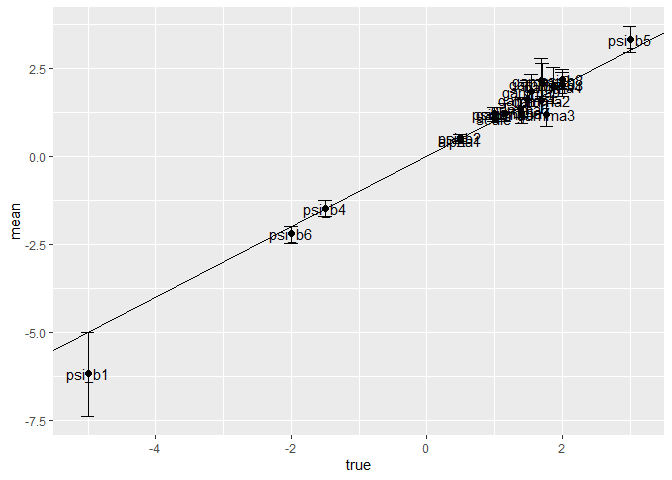
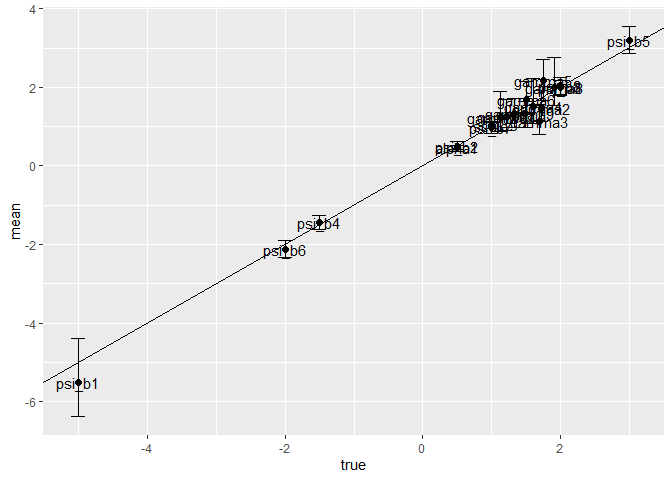
new travis test

diff --git a/README.md b/README.md
@@ -45,7 +45,7 @@ if (!require(devtools)) {
   install.packages("devtools")
   library(devtools)
 }
-install_github("plloydsmith/rmdcev", build_vignettes = FALSE)
+install_github("plloydsmith/rmdcev", build_vignettes = FALSE, INSTALL_opts="--no-multiarch")
 ```
 
 Depending on your computer set-up, you may need to adjust your Makevars
@@ -103,19 +103,21 @@ mdcev_est <- mdcev(~ b1 + b2 + b3 + b4 + b5 + b6 + b7 + b8-1,
                    model = model,
                    algorithm = "MLE")
 #> Using MLE to estimate MDCEV
-#> Chain 1: Initial log joint probability = -17556.8
+#> Chain 1: Initial log joint probability = -18631.4
 #> Chain 1:     Iter      log prob        ||dx||      ||grad||       alpha      alpha0  # evals  Notes 
-#> Chain 1:       19      -14641.9      0.204815       108.929           1           1       24   
+#> Chain 1:       19      -15626.9      0.185145       107.315           1           1       22   
 #> Chain 1:     Iter      log prob        ||dx||      ||grad||       alpha      alpha0  # evals  Notes 
-#> Chain 1:       39      -14570.9      0.113784       101.523      0.2645      0.2645       45   
+#> Chain 1:       39        -15555       0.14702       84.1025           1           1       43   
 #> Chain 1:     Iter      log prob        ||dx||      ||grad||       alpha      alpha0  # evals  Notes 
-#> Chain 1:       59      -14559.4     0.0131136       26.8481        0.55        0.55       67   
+#> Chain 1:       59      -15542.6     0.0775889        40.987           1           1       65   
 #> Chain 1:     Iter      log prob        ||dx||      ||grad||       alpha      alpha0  # evals  Notes 
-#> Chain 1:       79        -14558     0.0120502       8.84637           1           1       89   
+#> Chain 1:       79      -15541.4     0.0174648       7.09082           1           1       89   
 #> Chain 1:     Iter      log prob        ||dx||      ||grad||       alpha      alpha0  # evals  Notes 
-#> Chain 1:       99      -14557.1    0.00784037       3.07293           1           1      110   
+#> Chain 1:       99      -15540.9     0.0284867       3.21212           1           1      111   
 #> Chain 1:     Iter      log prob        ||dx||      ||grad||       alpha      alpha0  # evals  Notes 
-#> Chain 1:      115      -14557.1   0.000170927      0.247455      0.3223           1      129   
+#> Chain 1:      119      -15540.9     0.0052752       1.16396           1           1      133   
+#> Chain 1:     Iter      log prob        ||dx||      ||grad||       alpha      alpha0  # evals  Notes 
+#> Chain 1:      128      -15540.9     0.0016659      0.312295           1           1      142   
 #> Chain 1: Optimization terminated normally: 
 #> Chain 1:   Convergence detected: relative gradient magnitude is below tolerance
 ```
@@ -131,39 +133,39 @@ summary(mdcev_est)
 #> Number of individuals            : 1000
 #> Number of non-numeraire alts     : 10
 #> Estimated parameters             : 20
-#> LL                               : -14557.05
-#> AIC                              : 29154.1
-#> BIC                              : 29252.26
+#> LL                               : -15540.88
+#> AIC                              : 31121.77
+#> BIC                              : 31219.92
 #> Standard errors calculated using : 50 MVN draws
 #> Exit of MLE                      : successful convergence
-#> Time taken (hh:mm:ss)            : 00:00:1.37
+#> Time taken (hh:mm:ss)            : 00:00:1.54
 #> 
 #> Average consumption of non-numeraire alternatives:
 #>     1     2     3     4     5     6     7     8     9    10 
-#> 22.12  9.23 11.89 13.22 17.99 20.27 12.60 17.36 33.84 27.90 
+#> 25.51 15.15  9.70 23.00 37.43 25.60 12.60 12.74 27.76  9.32 
 #> 
 #> Parameter estimates --------------------------------  
 #>         Estimate Std.err z.stat
-#> psi_b1    -6.173   0.592 -10.42
-#> psi_b2     0.521   0.073   7.13
-#> psi_b3     2.042   0.189  10.79
-#> psi_b4    -1.485   0.126 -11.79
-#> psi_b5     3.325   0.180  18.47
-#> psi_b6    -2.203   0.135 -16.30
-#> psi_b7     1.218   0.098  12.38
-#> psi_b8     2.176   0.142  15.29
-#> gamma1     1.596   0.279   5.72
-#> gamma2     1.587   0.266   5.96
-#> gamma3     1.175   0.199   5.90
-#> gamma4     1.989   0.269   7.38
-#> gamma5     1.207   0.148   8.14
-#> gamma6     1.345   0.186   7.24
-#> gamma7     1.252   0.184   6.80
-#> gamma8     2.135   0.318   6.71
-#> gamma9     1.825   0.247   7.39
-#> gamma10    2.076   0.256   8.12
-#> alpha1     0.454   0.028  16.24
-#> scale      1.077   0.055  19.61
+#> psi_b1    -5.514   0.547 -10.09
+#> psi_b2     0.491   0.076   6.45
+#> psi_b3     1.986   0.107  18.49
+#> psi_b4    -1.433   0.102 -14.10
+#> psi_b5     3.190   0.175  18.28
+#> psi_b6    -2.126   0.122 -17.50
+#> psi_b7     0.988   0.085  11.63
+#> psi_b8     2.053   0.124  16.50
+#> gamma1     1.323   0.209   6.34
+#> gamma2     1.459   0.195   7.50
+#> gamma3     1.136   0.219   5.18
+#> gamma4     1.522   0.312   4.87
+#> gamma5     2.177   0.324   6.71
+#> gamma6     1.692   0.212   8.00
+#> gamma7     1.260   0.205   6.14
+#> gamma8     2.001   0.342   5.85
+#> gamma9     1.331   0.193   6.90
+#> gamma10    1.232   0.249   4.95
+#> alpha1     0.473   0.027  17.73
+#> scale      1.038   0.046  22.73
 #> Note: Alpha parameter is equal for all alternatives.
 ```
 
@@ -196,26 +198,26 @@ coefs <- output %>%
 #> # A tibble: 20 x 7
 #>    parms     mean     sd  zstat  cl_lo  cl_hi  true
 #>    <chr>    <dbl>  <dbl>  <dbl>  <dbl>  <dbl> <dbl>
-#>  1 alpha1   0.454 0.0280  16.2   0.407  0.511  0.5 
-#>  2 gamma1   1.60  0.279    5.72  1.14   2.14   1.48
-#>  3 gamma10  2.08  0.256    8.12  1.68   2.64   1.71
-#>  4 gamma2   1.59  0.266    5.96  1.20   2.15   1.69
-#>  5 gamma3   1.18  0.199    5.90  0.842  1.56   1.77
-#>  6 gamma4   1.99  0.269    7.38  1.50   2.51   1.87
-#>  7 gamma5   1.21  0.148    8.14  0.979  1.49   1.16
-#>  8 gamma6   1.34  0.186    7.24  1.10   1.68   1.39
-#>  9 gamma7   1.25  0.184    6.80  0.936  1.61   1.40
-#> 10 gamma8   2.14  0.318    6.71  1.56   2.76   1.69
-#> 11 gamma9   1.82  0.247    7.39  1.41   2.31   1.55
-#> 12 psi_b1  -6.17  0.592  -10.4  -7.37  -4.99  -5   
-#> 13 psi_b2   0.521 0.0731   7.13  0.371  0.629  0.5 
-#> 14 psi_b3   2.04  0.189   10.8   1.70   2.38   2   
-#> 15 psi_b4  -1.49  0.126  -11.8  -1.70  -1.24  -1.5 
-#> 16 psi_b5   3.32  0.180   18.5   2.95   3.67   3   
-#> 17 psi_b6  -2.20  0.135  -16.3  -2.48  -1.98  -2   
-#> 18 psi_b7   1.22  0.0983  12.4   1.05   1.38   1   
-#> 19 psi_b8   2.18  0.142   15.3   1.89   2.46   2   
-#> 20 scale    1.08  0.0549  19.6   0.980  1.17   1
+#>  1 alpha1   0.473 0.0267  17.7   0.427  0.526  0.5 
+#>  2 gamma1   1.32  0.209    6.34  0.972  1.71   1.33
+#>  3 gamma10  1.23  0.249    4.95  0.880  1.90   1.13
+#>  4 gamma2   1.46  0.195    7.50  1.13   1.93   1.72
+#>  5 gamma3   1.14  0.219    5.18  0.813  1.57   1.69
+#>  6 gamma4   1.52  0.312    4.87  1.09   2.22   1.61
+#>  7 gamma5   2.18  0.324    6.71  1.67   2.72   1.75
+#>  8 gamma6   1.69  0.212    8.00  1.34   2.14   1.51
+#>  9 gamma7   1.26  0.205    6.14  0.911  1.70   1.21
+#> 10 gamma8   2.00  0.342    5.85  1.53   2.76   1.91
+#> 11 gamma9   1.33  0.193    6.90  0.987  1.64   1.48
+#> 12 psi_b1  -5.51  0.547  -10.1  -6.36  -4.39  -5   
+#> 13 psi_b2   0.491 0.0761   6.45  0.364  0.628  0.5 
+#> 14 psi_b3   1.99  0.107   18.5   1.82   2.19   2   
+#> 15 psi_b4  -1.43  0.102  -14.1  -1.62  -1.26  -1.5 
+#> 16 psi_b5   3.19  0.175   18.3   2.87   3.54   3   
+#> 17 psi_b6  -2.13  0.122  -17.5  -2.32  -1.90  -2   
+#> 18 psi_b7   0.988 0.0849  11.6   0.819  1.13   1   
+#> 19 psi_b8   2.05  0.124   16.5   1.80   2.25   2   
+#> 20 scale    1.04  0.0456  22.7   0.949  1.12   1
 ```
 
 Compare outputs using a figure
@@ -256,11 +258,11 @@ wtp <- mdcev.sim(df_sim$df_indiv,
 #> Using hybrid approach to simulation
 #> Simulating welfare...
 #> 
-#> 9.00e+05simulations finished in0.2minutes.(75949per second)
+#> 9.00e+05simulations finished in0.18minutes.(82569per second)
 summary(wtp)
 #> # A tibble: 2 x 5
-#>   policy       mean  std.dev `ci_lo2.5%` `ci_hi97.5%`
-#>   <chr>       <dbl>    <dbl>       <dbl>        <dbl>
-#> 1 policy1 -4.41e-12 6.64e-11   -1.14e-10     1.28e-10
-#> 2 policy2 -4.41e-12 6.64e-11   -1.14e-10     1.28e-10
+#>   policy      mean  std.dev `ci_lo2.5%` `ci_hi97.5%`
+#>   <chr>      <dbl>    <dbl>       <dbl>        <dbl>
+#> 1 policy1 3.84e-12 7.79e-11   -1.16e-10     1.44e-10
+#> 2 policy2 3.84e-12 7.79e-11   -1.16e-10     1.44e-10
 ```
